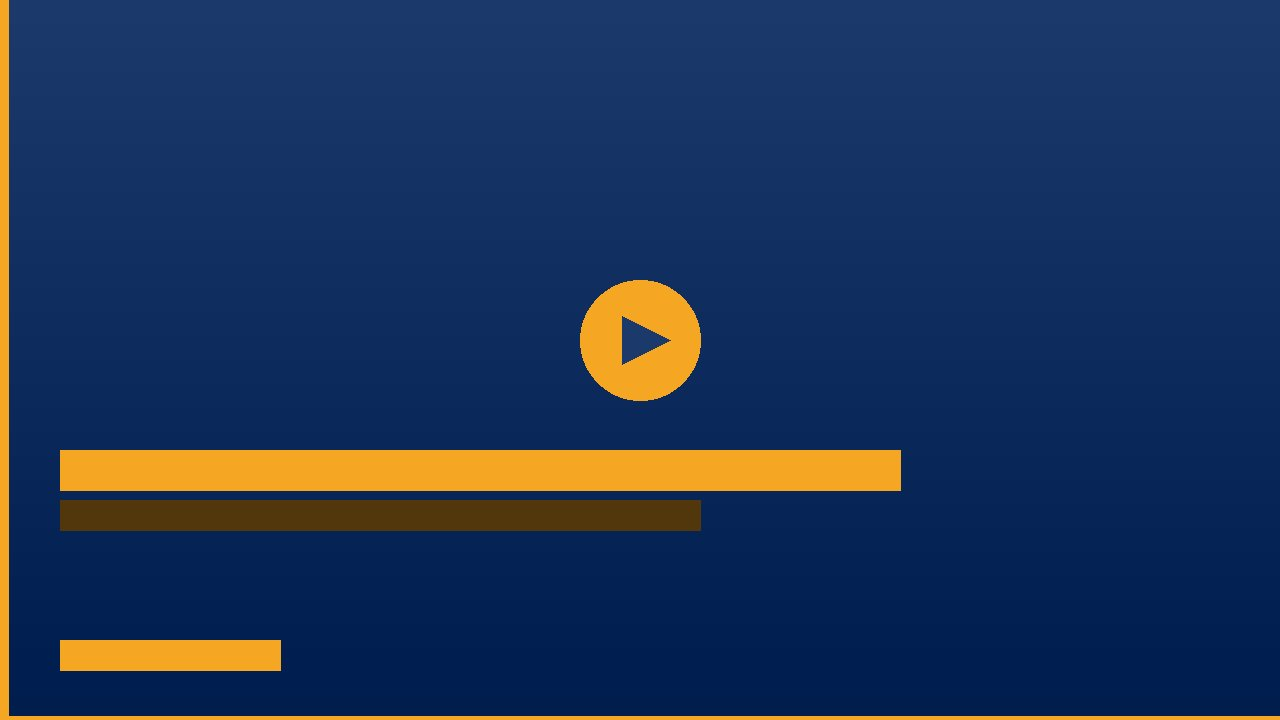
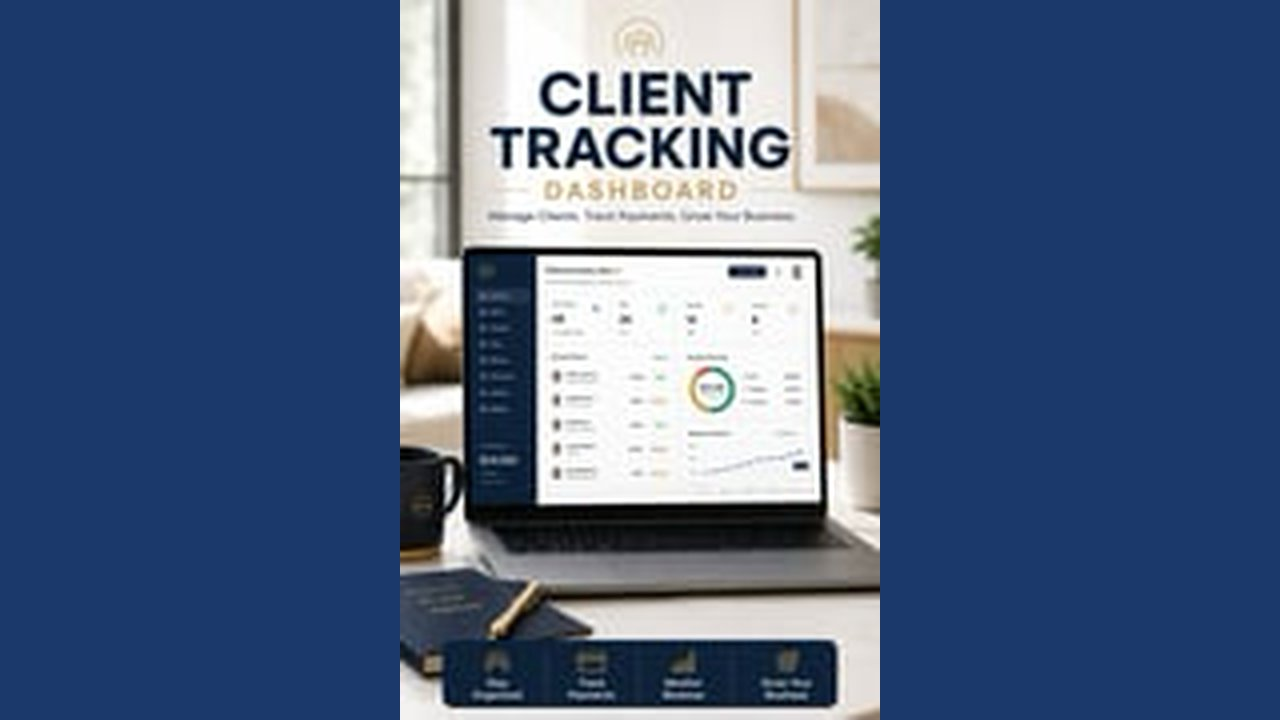
Add real Client Tracking Dashboard cover image
- images/products/client-tracking-dashboard.jpg: product card thumbnail from cover art
- images/products/client-tracking-dashboard-poster.jpg: 1280x720 video poster (navy letterbox)
- index.html: homepage card now uses real cover image

Claude-Session: https://claude.ai/code/session_01RFXptRmPRNmaaY82UEQcXY

diff --git a/index.html b/index.html
@@ -237,7 +237,7 @@
 
             <article class="payhip-card">
                 <a href="/client-tracking-dashboard.html" class="cover-link">
-                    <img src="images/products/client-tracking-dashboard-poster.jpg" alt="Client Tracking Dashboard" class="product-img">
+                    <img src="images/products/client-tracking-dashboard.jpg" alt="Client Tracking Dashboard" class="product-img">
                 </a>
                 <div class="payhip-info">
                     <h3>Client Tracking Dashboard</h3>